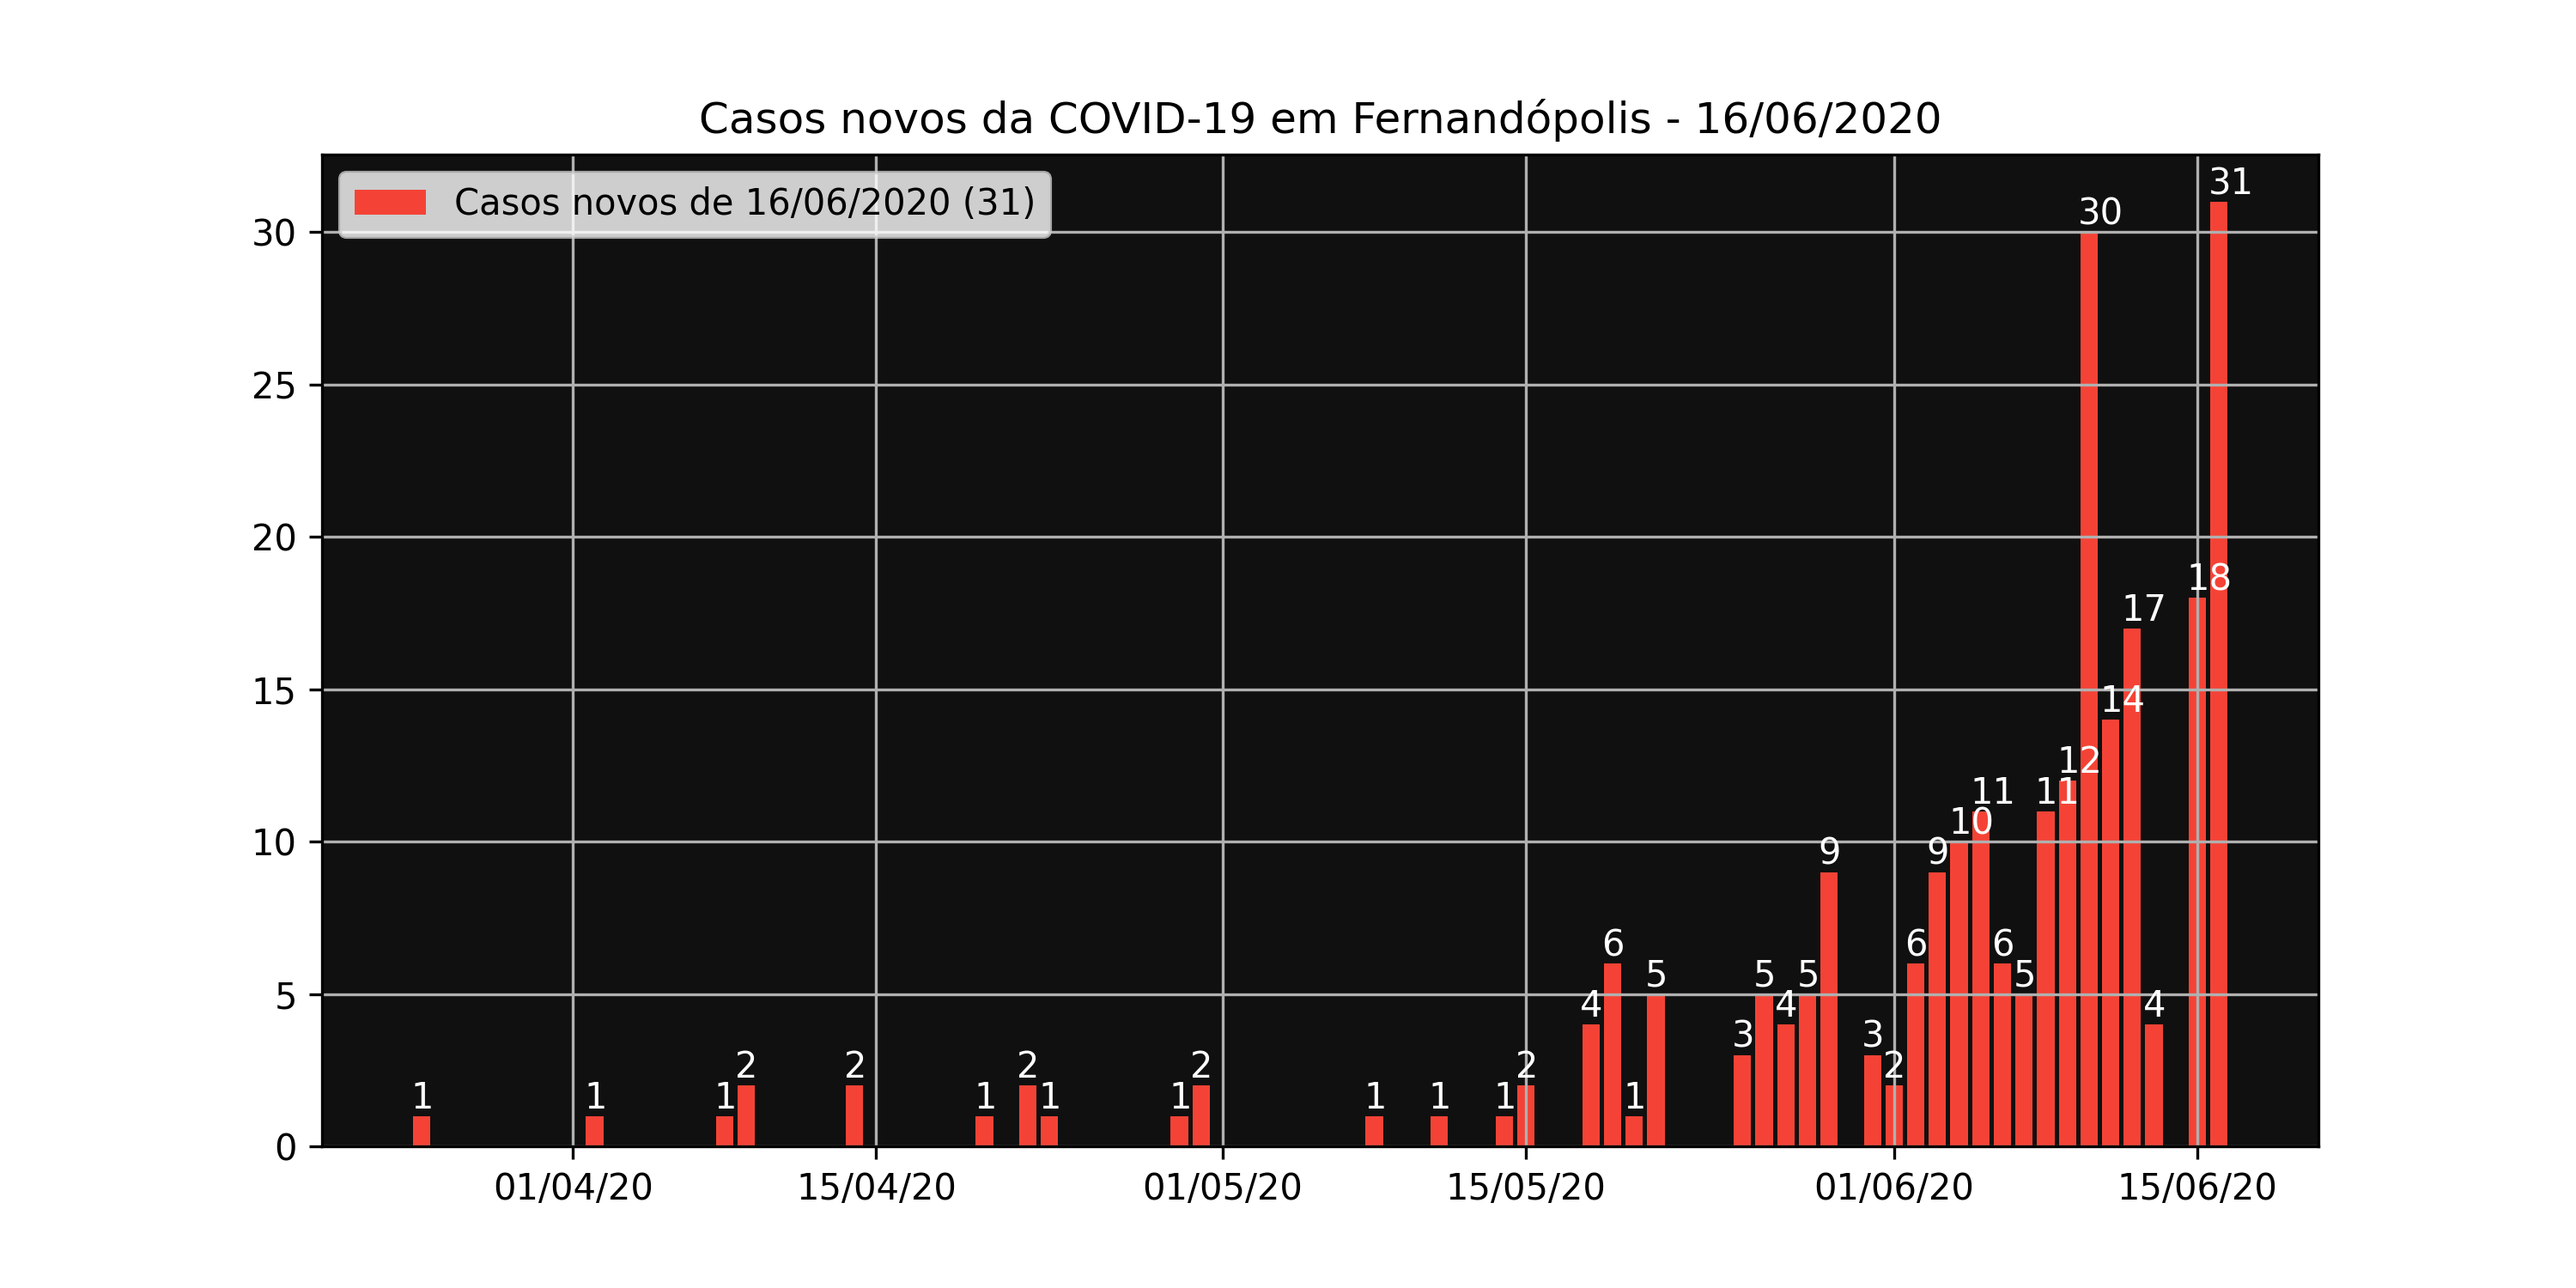
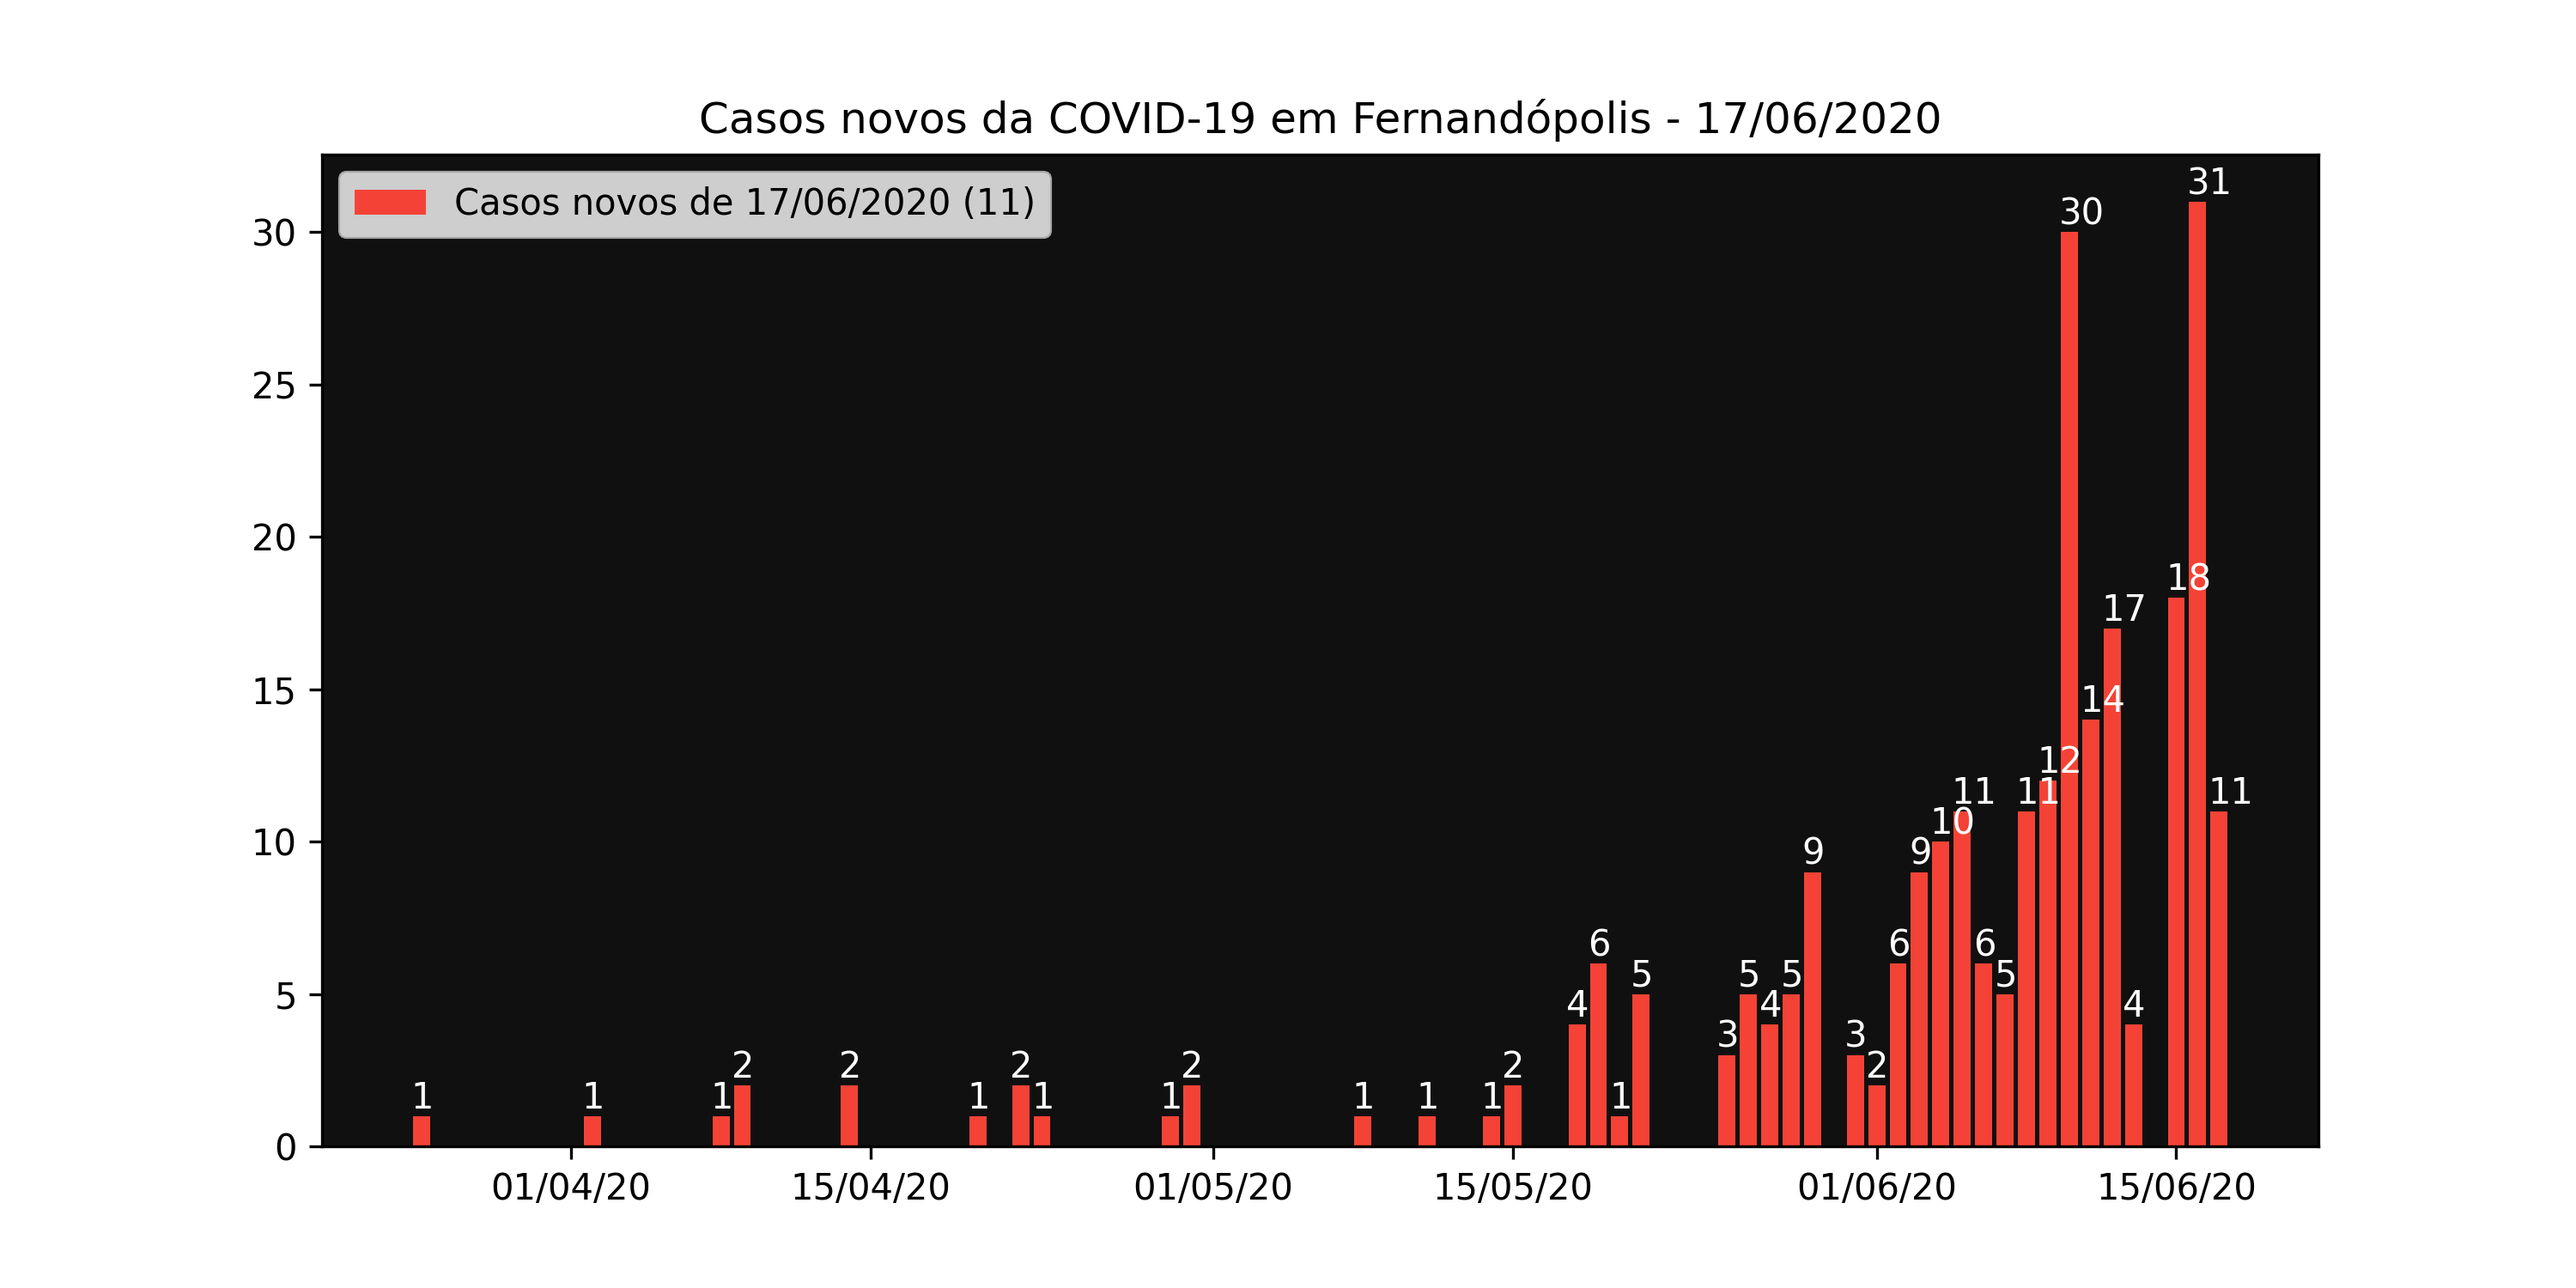
atualização qua 17 jun 2020 19:51:06 -03

diff --git a/chart-generator/main.py b/chart-generator/main.py
@@ -48,7 +48,6 @@ def area_chart(ds, dateFmt):
 
     # set chart style
     ax.xaxis.set_major_formatter(dateFmt)
-    ax.grid(True)
     ax.set_facecolor('#101010')
 
     # set chart title
@@ -93,7 +92,6 @@ def bar_chart(ds, dateFmt):
 
     # set chart style
     ax.xaxis.set_major_formatter(dateFmt)
-    ax.grid(True)
     ax.set_facecolor('#101010')
 
     # set chart title
@@ -174,7 +172,6 @@ def line_chart(ds, dateFmt):
 
     # set chart style
     ax.xaxis.set_major_formatter(dateFmt)
-    ax.grid(True)
     ax.set_facecolor('#101010')
 
     # set chart title
